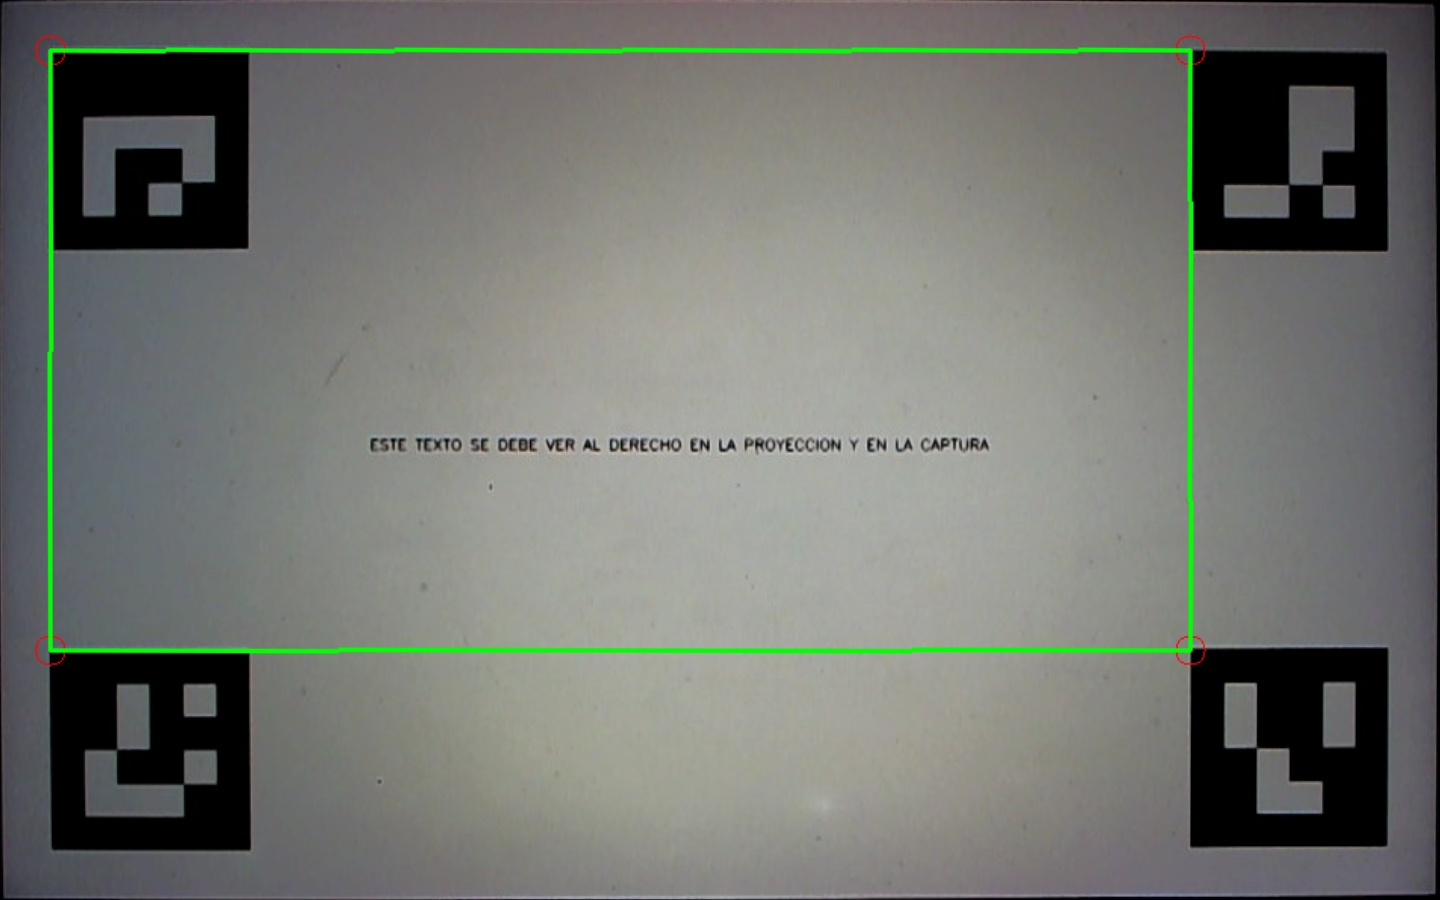
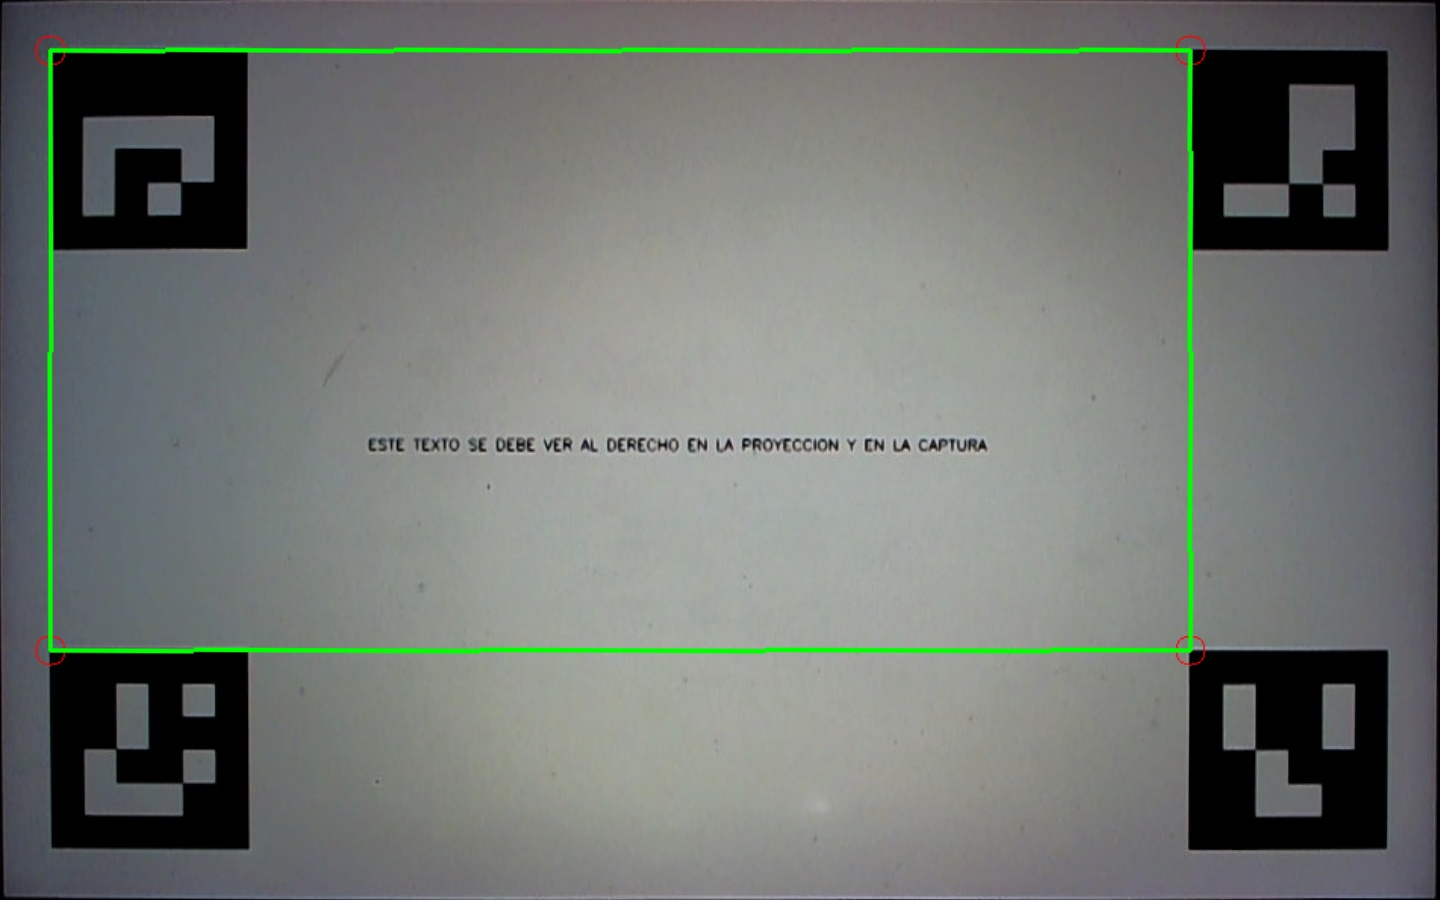
muestra (mal) la imagen corregida

diff --git a/autoCalib.py b/autoCalib.py
@@ -62,6 +62,8 @@ def on_key_press(symbol, modifiers):
 
 # Cuando se detectaron los marcadores         
 def se_detectaron_marcadores(imagen, coord_detectados):
+
+    global sprite_captura_corregida
     
     print ("Coord de los marcadores originales:")
     print (coord_marcadores)
@@ -74,6 +76,10 @@ def se_detectaron_marcadores(imagen, coord_detectados):
     # Generlo la imagen corregida
     captura_corregida = cv2.warpPerspective(imagen, mtx, (res_proyector_w, res_proyector_h))
     cv2.imwrite ("corregido.jpg", captura_corregida)
+    new_image = pyglet.image.load('corregido.jpg')
+    sprite_captura_corregida = pyglet.sprite.Sprite(new_image, x=0, y=0)
+    # Redibujar ventana
+    win_corregida.invalidatae()
 
 
 
@@ -357,6 +363,13 @@ if __name__ == '__main__':
     win_captura.push_handlers(on_key_press)
     win_proyector.push_handlers(on_key_press)
     win_corregida.push_handlers(on_key_press)
+    
+    # Crear una instancia de SolidColorImagePattern con el color negro
+    #black_pattern = pyglet.image.SolidColorImagePattern((0, 0, 0, 255))
+    # Crear una imagen negra de 100x100 píxeles utilizando el patrón de color negro
+    #black_image = black_pattern.create_image(100, 100)
+    fondo = pyglet.image.load('background.jpg')
+    sprite_captura_corregida = pyglet.sprite.Sprite(fondo)
 
 
 # Configurar el evento de dibujado de la ventana con la captura
@@ -371,6 +384,7 @@ if __name__ == '__main__':
     @win_corregida.event
     def on_draw():
         win_corregida.clear()
+        sprite_captura_corregida.draw()
         aviso.draw()
 
 # Configurar el evento de dibujado del proyector
@@ -436,7 +450,7 @@ if __name__ == '__main__':
     cv2.destroyAllWindows()
     """
 
-    """
+"""
     import pyglet
 
 # Cargar la imagen original

diff --git a/testBorrar.py b/testBorrar.py
@@ -1,20 +1,37 @@
 import pyglet
-import cv2
+
 window = pyglet.window.Window()
 
-video = cv2.VideoCapture(0)
-def takepicture(dt):
-    num = 0
-    ret,frame = video.read()
-    cv2.imwrite(str(num)+'.jpg',frame)
-    #print("Image_Captured")
+# Cargar imagen desde archivo en disco
+image = pyglet.image.load('background.jpg')
+
+
+
+# Agregar sprite al lote de gráficos (batch) de la ventana
+#batch = pyglet.graphics.Batch()
+
+# Crear sprite con la imagen cargada y posición en la ventana
+sprite = pyglet.sprite.Sprite(image, x=0, y=0)
 
 @window.event
 def on_draw():
     window.clear()
-    image = pyglet.image.load('0.jpg')
-    image.blit(0,0)
+    #batch.draw()
+    sprite.draw()
 
-pyglet.clock.schedule_interval(takepicture, 0.001)
+def reload_image():
+    global sprite
+    # Cargar nueva imagen desde archivo en disco
+    new_image = pyglet.image.load('plantilla.jpg')
+    # Actualizar sprite con nueva imagen
+    sprite = pyglet.sprite.Sprite(new_image, x=0, y=0)
+    # Redibujar ventana
+    #batch.invalidate()
+
+@window.event
+def on_key_press(symbol, modifiers):
+    if symbol == pyglet.window.key.R:
+        print ("reload")
+        reload_image()
 
 pyglet.app.run()
